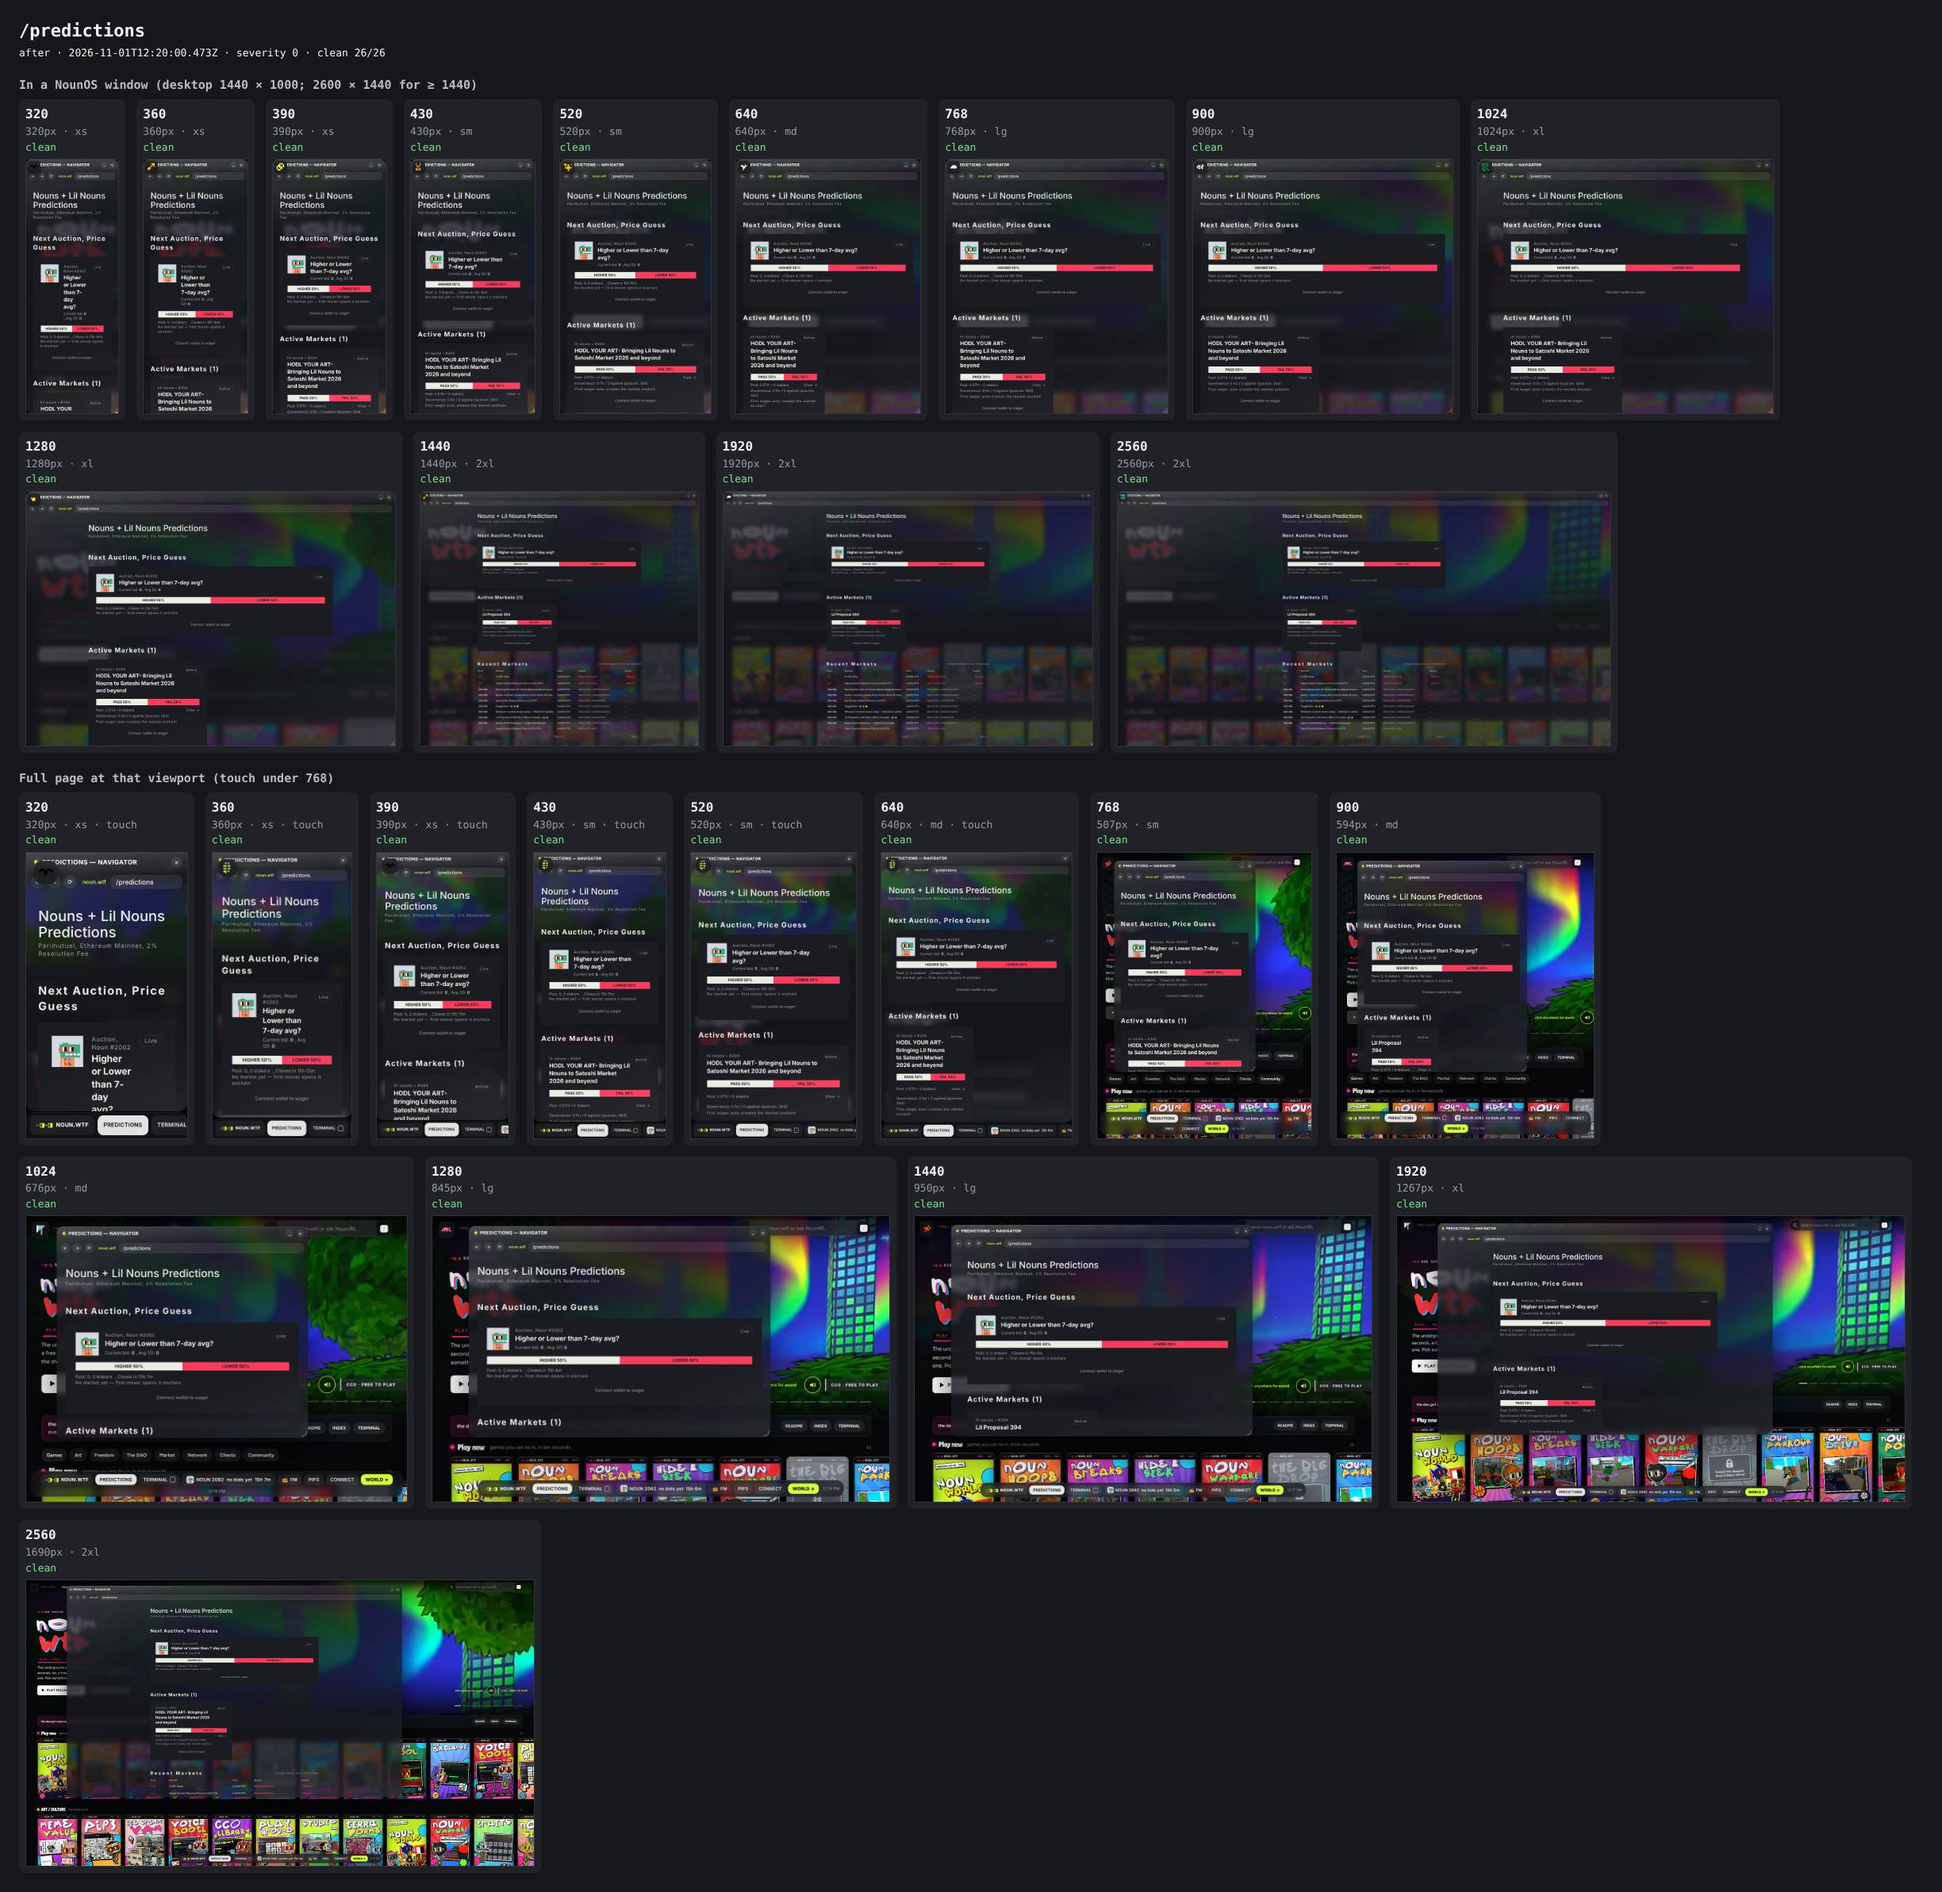
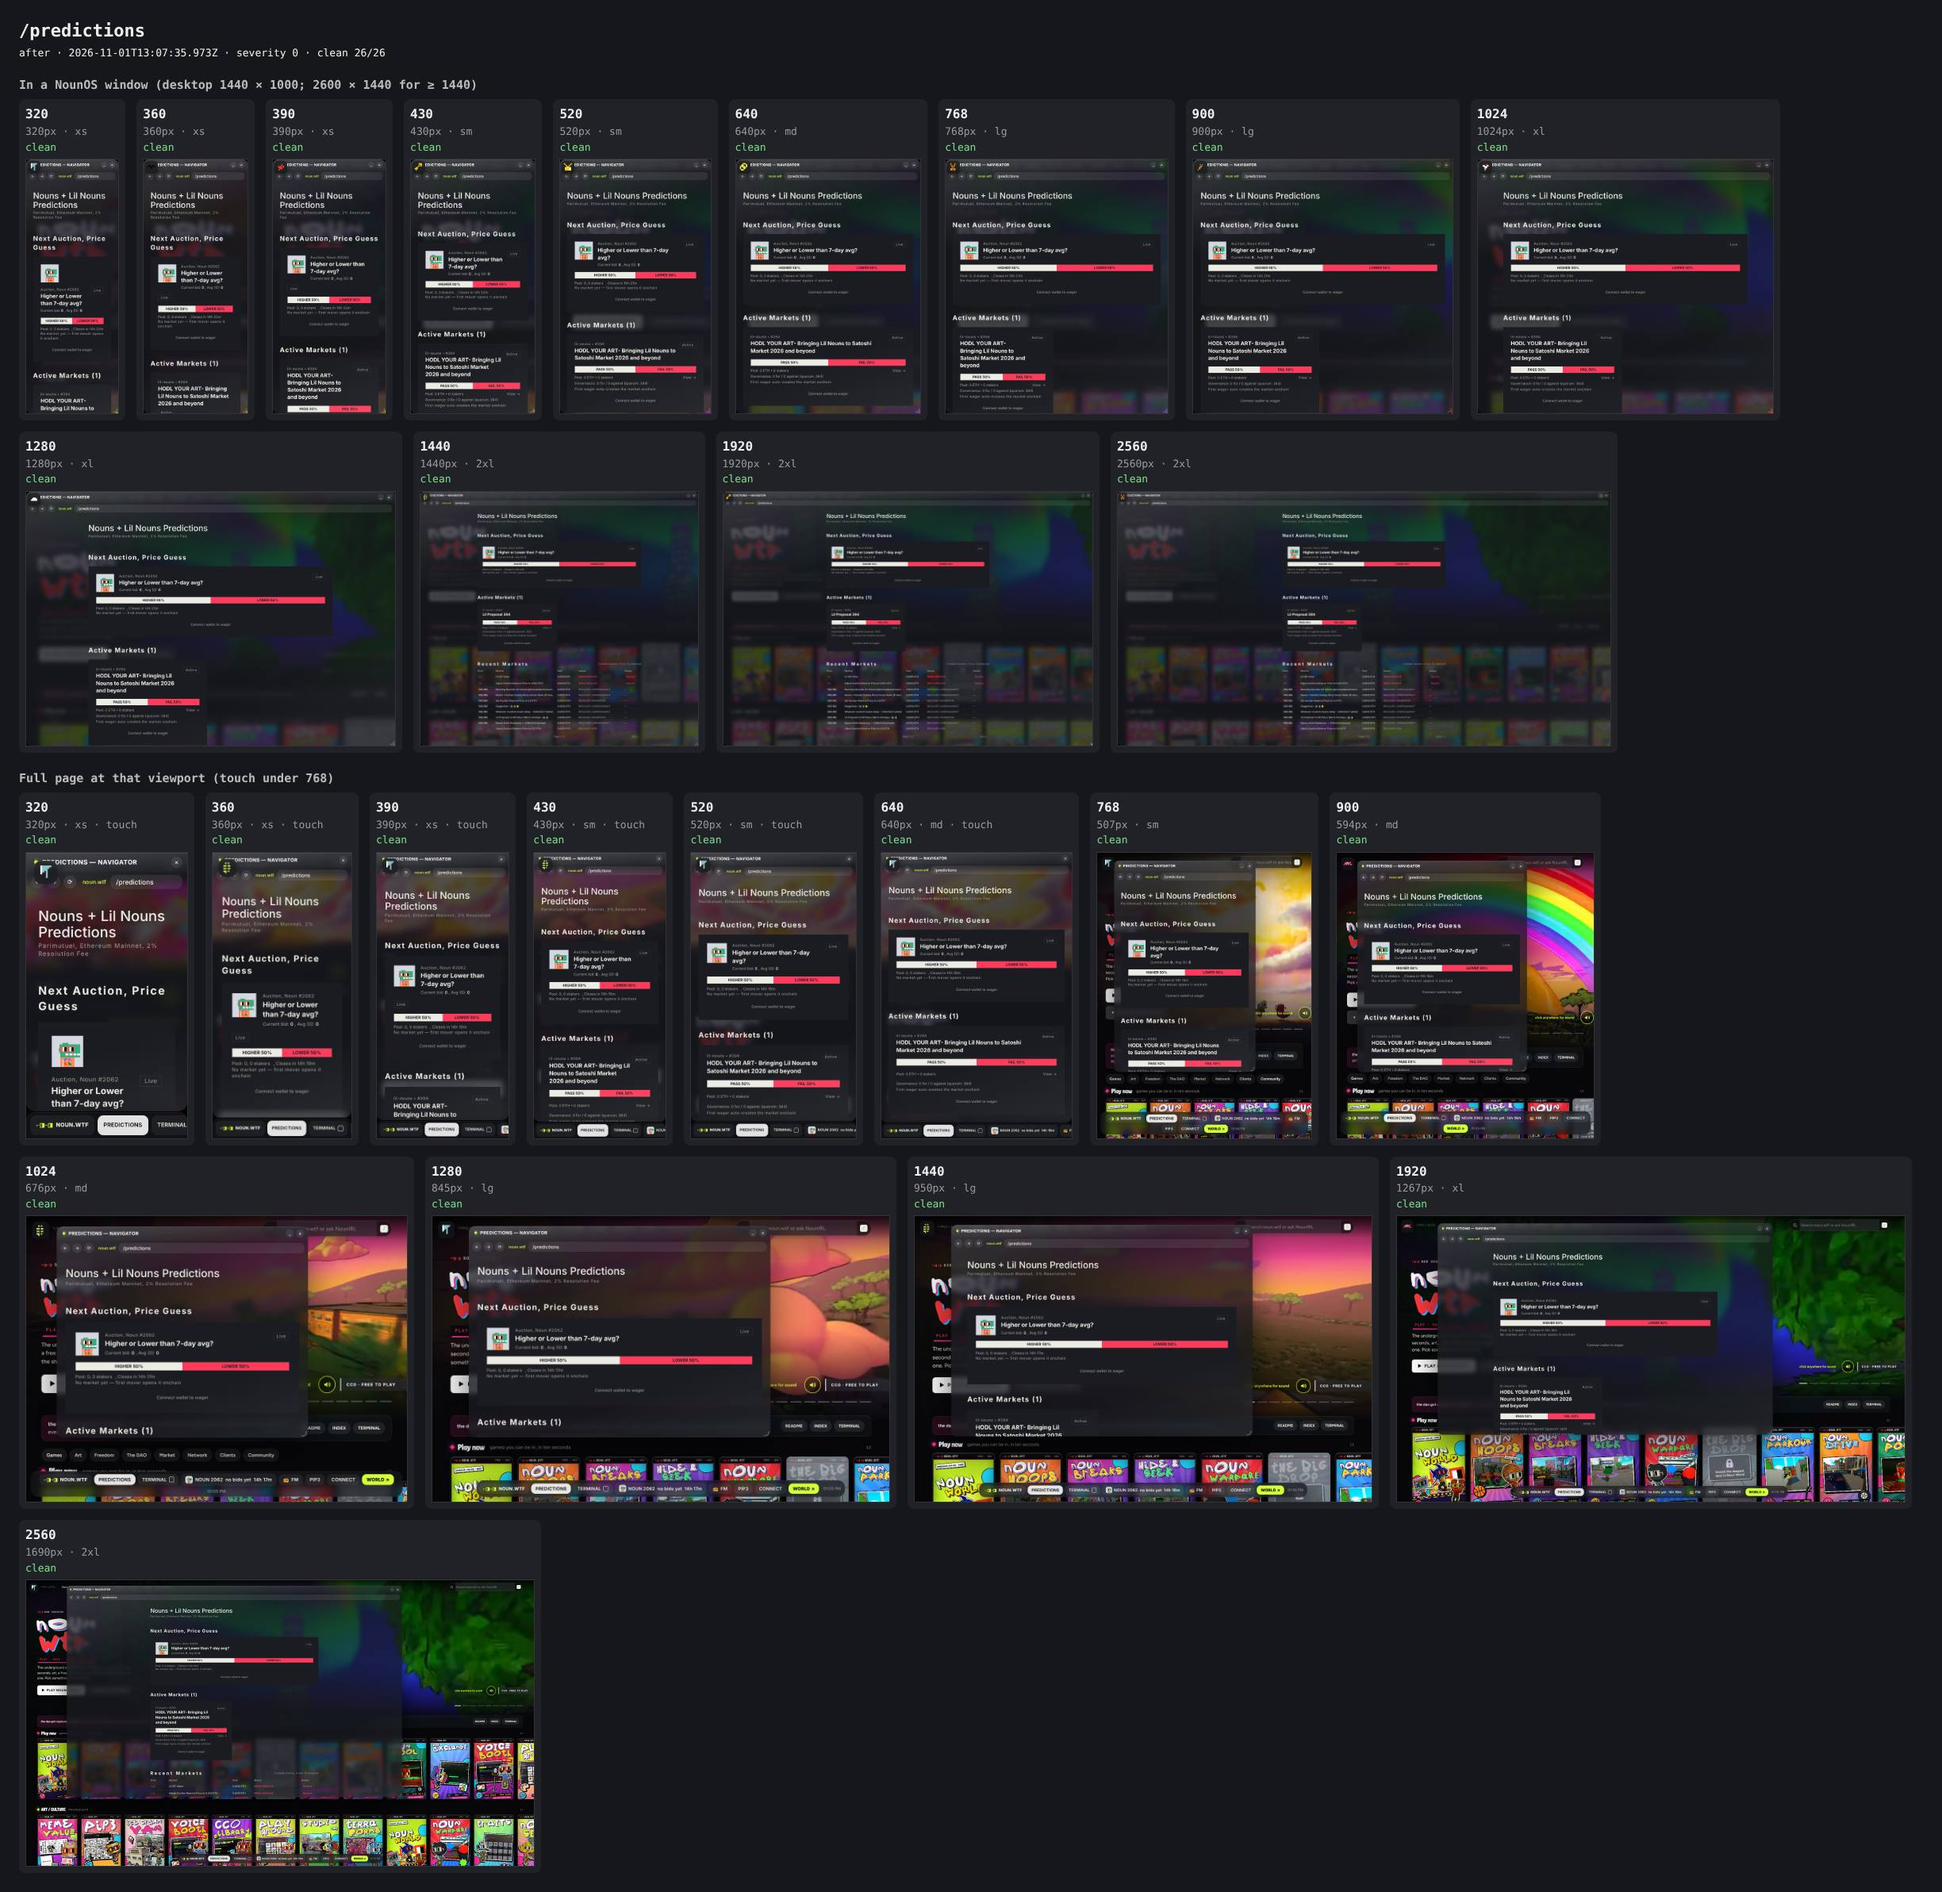
responsive: explore: no squeezed card titles; re-measured with the new harness
- Market / auction cards: the status badge wraps under the title when the
  card is too narrow for both (title keeps at least 14rem / 10rem).
- Market grids go two-up from lg (760) instead of md: two ~240 px cards
  squeezed titles to a word a line. Wide windows are unchanged.
- After shots re-run with the foundation's warnings: predictions has none;
  feed (one URL-only cast) and highway (the ASCII noggles <pre>) each keep
  one false-positive "squeezed".

Claude-Session: https://claude.ai/code/session_01Nf9CuLVagVGyomT7ZRMgEv

diff --git a/packages/nouns-webapp/src/components/Predictions/AuctionMarketCard.tsx b/packages/nouns-webapp/src/components/Predictions/AuctionMarketCard.tsx
@@ -166,11 +166,12 @@ function AuctionMarketCardInner({ nounId, currentBid, avgWei, endTime, sampleSiz
 
   return (
     <div className="min-w-0 border-2 border-[var(--rule)] bg-[var(--paper)] p-4">
-      <div className="mb-3 flex items-start gap-3">
+      {/* The badge drops under the title when the card is too narrow for all three. */}
+      <div className="mb-3 flex flex-wrap items-start gap-3">
         <div className="h-16 w-16 shrink-0 overflow-hidden border border-[var(--rule-light)]">
           <Noun nounId={nounId} className="h-full w-full" />
         </div>
-        <div className="min-w-0 flex-1">
+        <div className="min-w-[min(100%,10rem)] flex-1">
           <p className="font-mono text-xs uppercase tracking-wider text-[var(--ink-faint)]">
             Auction, Noun #{nounId.toString()}
           </p>

diff --git a/packages/nouns-webapp/src/components/Predictions/MarketCard.tsx b/packages/nouns-webapp/src/components/Predictions/MarketCard.tsx
@@ -112,8 +112,9 @@ export function MarketCard({
   return (
     <div className="min-w-0 border-2 border-[var(--rule)] bg-[var(--paper)] p-4">
       {/* Header */}
-      <div className="mb-3 flex items-start justify-between gap-2">
-        <div className="min-w-0 flex-1">
+      {/* The badge drops under the title when the card is too narrow for both. */}
+      <div className="mb-3 flex flex-wrap items-start justify-between gap-2">
+        <div className="min-w-[min(100%,14rem)] flex-1">
           <p className="font-mono text-xs uppercase tracking-wider text-[var(--ink-faint)]">
             {dao} &bull; #{proposalId}
           </p>

diff --git a/packages/nouns-webapp/src/pages/Predictions/index.tsx b/packages/nouns-webapp/src/pages/Predictions/index.tsx
@@ -46,7 +46,7 @@ export default function PredictionsPage() {
           <h2 className="mb-3 font-mono text-xs font-bold uppercase leading-snug tracking-widest">
             Resolved Markets ({resolved.length})
           </h2>
-          <div className="@md:grid-cols-2 grid gap-4">
+          <div className="@lg:grid-cols-2 grid gap-4">
             {resolved.map(p => (
               <MarketCard
                 key={`${p.dao}-${p.proposalId}`}

diff --git a/packages/nouns-webapp/src/components/Predictions/AsyncMarketGrid.tsx b/packages/nouns-webapp/src/components/Predictions/AsyncMarketGrid.tsx
@@ -41,7 +41,7 @@ export function AsyncMarketGrid() {
       <h2 className="mb-3 font-mono text-xs font-bold uppercase leading-snug tracking-widest">
         Active Markets ({proposals.length})
       </h2>
-      <div className="@md:grid-cols-2 grid gap-4">
+      <div className="@lg:grid-cols-2 grid gap-4">
         {proposals.map(p => (
           <MarketCard
             key={`${p.dao}-${p.proposalId}`}
